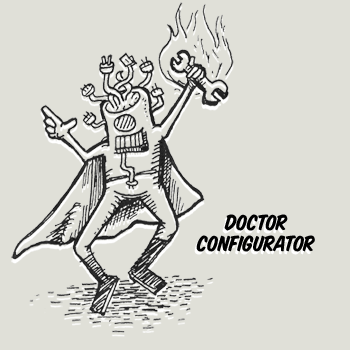
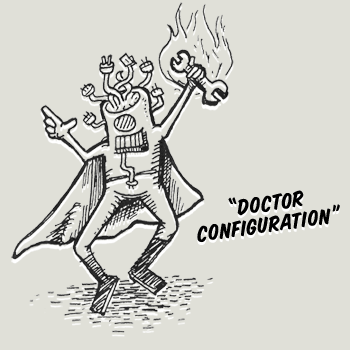
updated character names

Changed region(s): [[0.5429, 0.5429, 0.9714, 0.7429]]

diff --git a/index.html b/index.html
@@ -30,7 +30,7 @@
 
     <div class="villains">
       <div class="config">
-        <img src="images/img-config.png" width="350" height="350" alt="Doctor Configurator" align="right" style="margin-top: -30px;" />
+        <img src="images/img-config.png" width="350" height="350" alt="Doctor Configuration" align="right" style="margin-top: -30px;" />
         <h3>Pow prevails over the forces of evil.</h3>
         <p><strong>Convention trumps configuration.</strong> &nbsp;
         Don&rsquo;t let tedious configuration get in the way of
@@ -40,7 +40,7 @@
         Rack app running, just type a single command.</p>
       </div>
       <div class="maintenance">
-        <img src="images/img-maintenance.png" width="350" height="350" alt="The Maintenance Mysterio" align="left" style="margin-top: -80px;" />
+        <img src="images/img-maintenance.png" width="350" height="350" alt="The Maintenance Man" align="left" style="margin-top: -80px;" />
         <p><strong>No maintenance required.</strong> &nbsp; Pow is a
         clean, self-contained server that runs as your user without
         root privileges. There are no Apache extensions to compile,
@@ -49,7 +49,7 @@
         untouched.</p>
       </div>
       <div class="gem">
-        <img src="images/img-gem.png" width="350" height="350" alt="Gem Hydra" align="right" style="margin-top: -130px;" />
+        <img src="images/img-gem.png" width="350" height="350" alt="Ruby Hydra" align="right" style="margin-top: -130px;" />
         <p><strong>Tame multiple Rubies.</strong> &nbsp; With full
         support for <a href="http://rvm.beginrescueend.com/">rvm</a>
         and <a href="http://gembundler.com/">Bundler</a>, Pow makes
